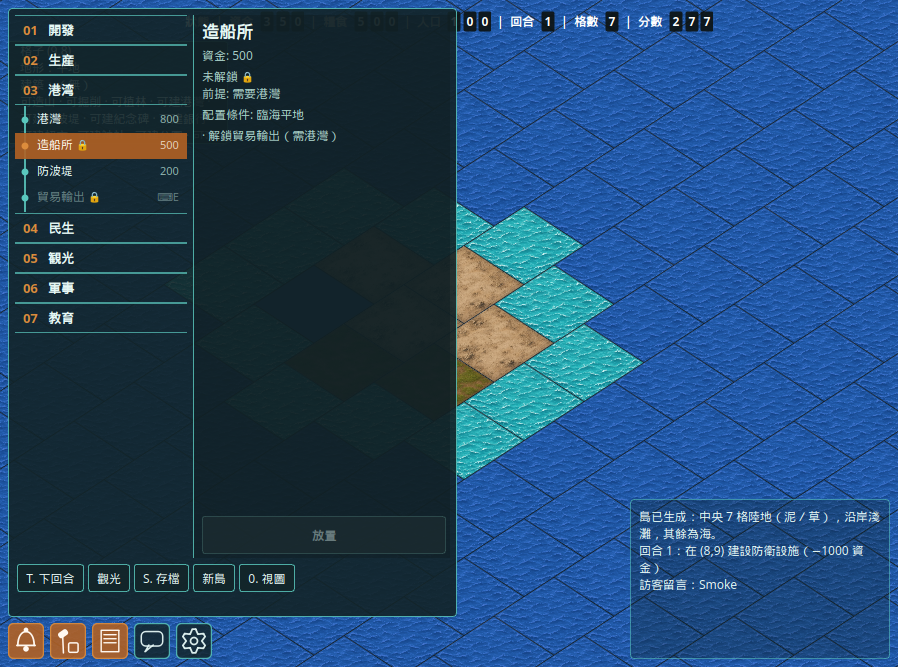
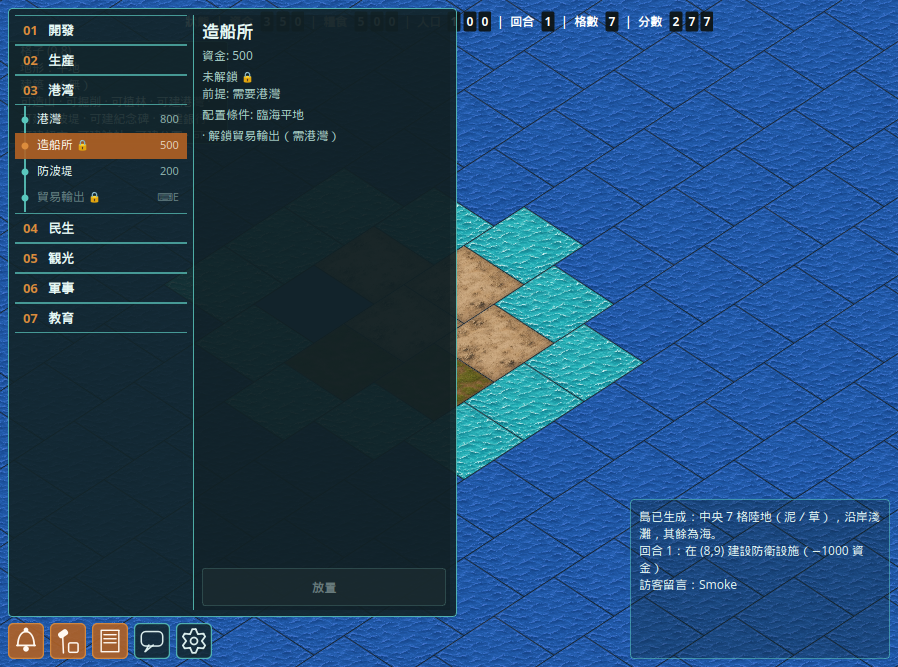
箱庭島: drop session footer from build drawer
Remove T.下回合／觀光／S.存檔／新島／視圖 from under 放置 so the
tree+detail pane fills the drawer. Shortcuts (T/S/0) stay. Keep 放置.

Changed region(s): [[0.0312, 0.8396, 0.343, 0.8996], [0.343, 0.8696, 0.3742, 0.8996], [0.343, 0.7796, 0.3742, 0.8096]]

diff --git a/hakoniwa/dialog.py b/hakoniwa/dialog.py
@@ -387,24 +387,6 @@ class HakoniwaMapHud(QWidget):
         browse_row.addWidget(detail, stretch=3)
         drawer_outer.addLayout(browse_row, stretch=1)
 
-        # Session utilities under the browse pane (下回合／存檔…).
-        drawer_scroll = QScrollArea()
-        drawer_scroll.setWidgetResizable(True)
-        drawer_scroll.setHorizontalScrollBarPolicy(
-            Qt.ScrollBarPolicy.ScrollBarAlwaysOff
-        )
-        drawer_scroll.setFrameShape(QFrame.Shape.NoFrame)
-        drawer_scroll.setStyleSheet(
-            "QScrollArea { background: transparent; border: none; }"
-        )
-        drawer_scroll.setMaximumHeight(48)
-        self.tools_body = QWidget()
-        self.tools_layout = QVBoxLayout(self.tools_body)
-        self.tools_layout.setContentsMargins(2, 2, 2, 2)
-        self.tools_layout.setSpacing(2)
-        drawer_scroll.setWidget(self.tools_body)
-        drawer_outer.addWidget(drawer_scroll, stretch=0)
-
         # Selected tree key (tool / building); None when category or empty.
         self._build_tree_key: Optional[str] = None
 
@@ -1002,45 +984,6 @@ class HakoniwaIslandDialog(QDialog):
 
         self._populate_build_tree()
         self.hud.build_place_btn.clicked.connect(self._on_build_place_clicked)
-
-        tools_lay = self.hud.tools_layout
-        # Compact horizontal chip row (teal glass) — avoids calcAction gray stack.
-        footer = QHBoxLayout()
-        footer.setContentsMargins(0, 0, 0, 0)
-        footer.setSpacing(4)
-
-        self.turn_btn = QPushButton("T. 下回合")
-        self.turn_btn.setObjectName("hakoniwaDrawerAction")
-        self.turn_btn.setToolTip("結算本回合產糧／產資（快捷鍵 T）")
-        self.turn_btn.clicked.connect(self._next_turn)
-        footer.addWidget(self.turn_btn)
-
-        tour_btn = QPushButton("觀光")
-        tour_btn.setObjectName("hakoniwaDrawerAction")
-        tour_btn.setToolTip("瀏覽諸島地圖（唯讀）；留言板仍可用")
-        tour_btn.clicked.connect(self._open_tourism)
-        footer.addWidget(tour_btn)
-
-        save_btn = QPushButton("S. 存檔")
-        save_btn.setObjectName("hakoniwaDrawerAction")
-        save_btn.setToolTip("寫入本機 JSON（快捷鍵 S）")
-        save_btn.clicked.connect(self._save)
-        footer.addWidget(save_btn)
-
-        new_btn = QPushButton("新島")
-        new_btn.setObjectName("hakoniwaDrawerAction")
-        new_btn.setToolTip("新島（重置）")
-        new_btn.clicked.connect(self._new_island)
-        footer.addWidget(new_btn)
-
-        reset_view_btn = QPushButton("0. 視圖")
-        reset_view_btn.setObjectName("hakoniwaDrawerAction")
-        reset_view_btn.setToolTip("縮放／平移回到預設（快捷鍵 0）")
-        reset_view_btn.clicked.connect(self.map.reset_view)
-        footer.addWidget(reset_view_btn)
-        footer.addStretch(1)
-        tools_lay.addLayout(footer)
-        tools_lay.addStretch(1)
 
         # Server connection lives in the 設定 drawer (was under 工具／設定).
         settings_lay = self.hud.settings_layout

diff --git a/hakoniwa/smoke_test.py b/hakoniwa/smoke_test.py
@@ -2880,6 +2880,16 @@ def test_dialog_import_offscreen():
     dlg.hud.tools_btn.setChecked(True)
     assert not dlg.hud.tools_drawer.isHidden()
     assert dlg.hud.settings_drawer.isHidden()
+    # No session-action footer under 放置 (下回合／觀光／存檔／新島／視圖).
+    from PySide6.QtWidgets import QPushButton
+
+    assert not hasattr(dlg.hud, "tools_layout")
+    assert not hasattr(dlg, "turn_btn")
+    footer_labels = ("下回合", "觀光", "存檔", "新島", "視圖")
+    for btn in dlg.hud.tools_drawer.findChildren(QPushButton):
+        label = btn.text() or ""
+        assert not any(bit in label for bit in footer_labels), label
+    assert dlg.hud.build_place_btn.text() == "放置"
     dlg.hud.tools_btn.setChecked(False)
     assert dlg.hud.tools_drawer.isHidden()
     dlg.hud.icon_bar.button("settings").setChecked(True)
